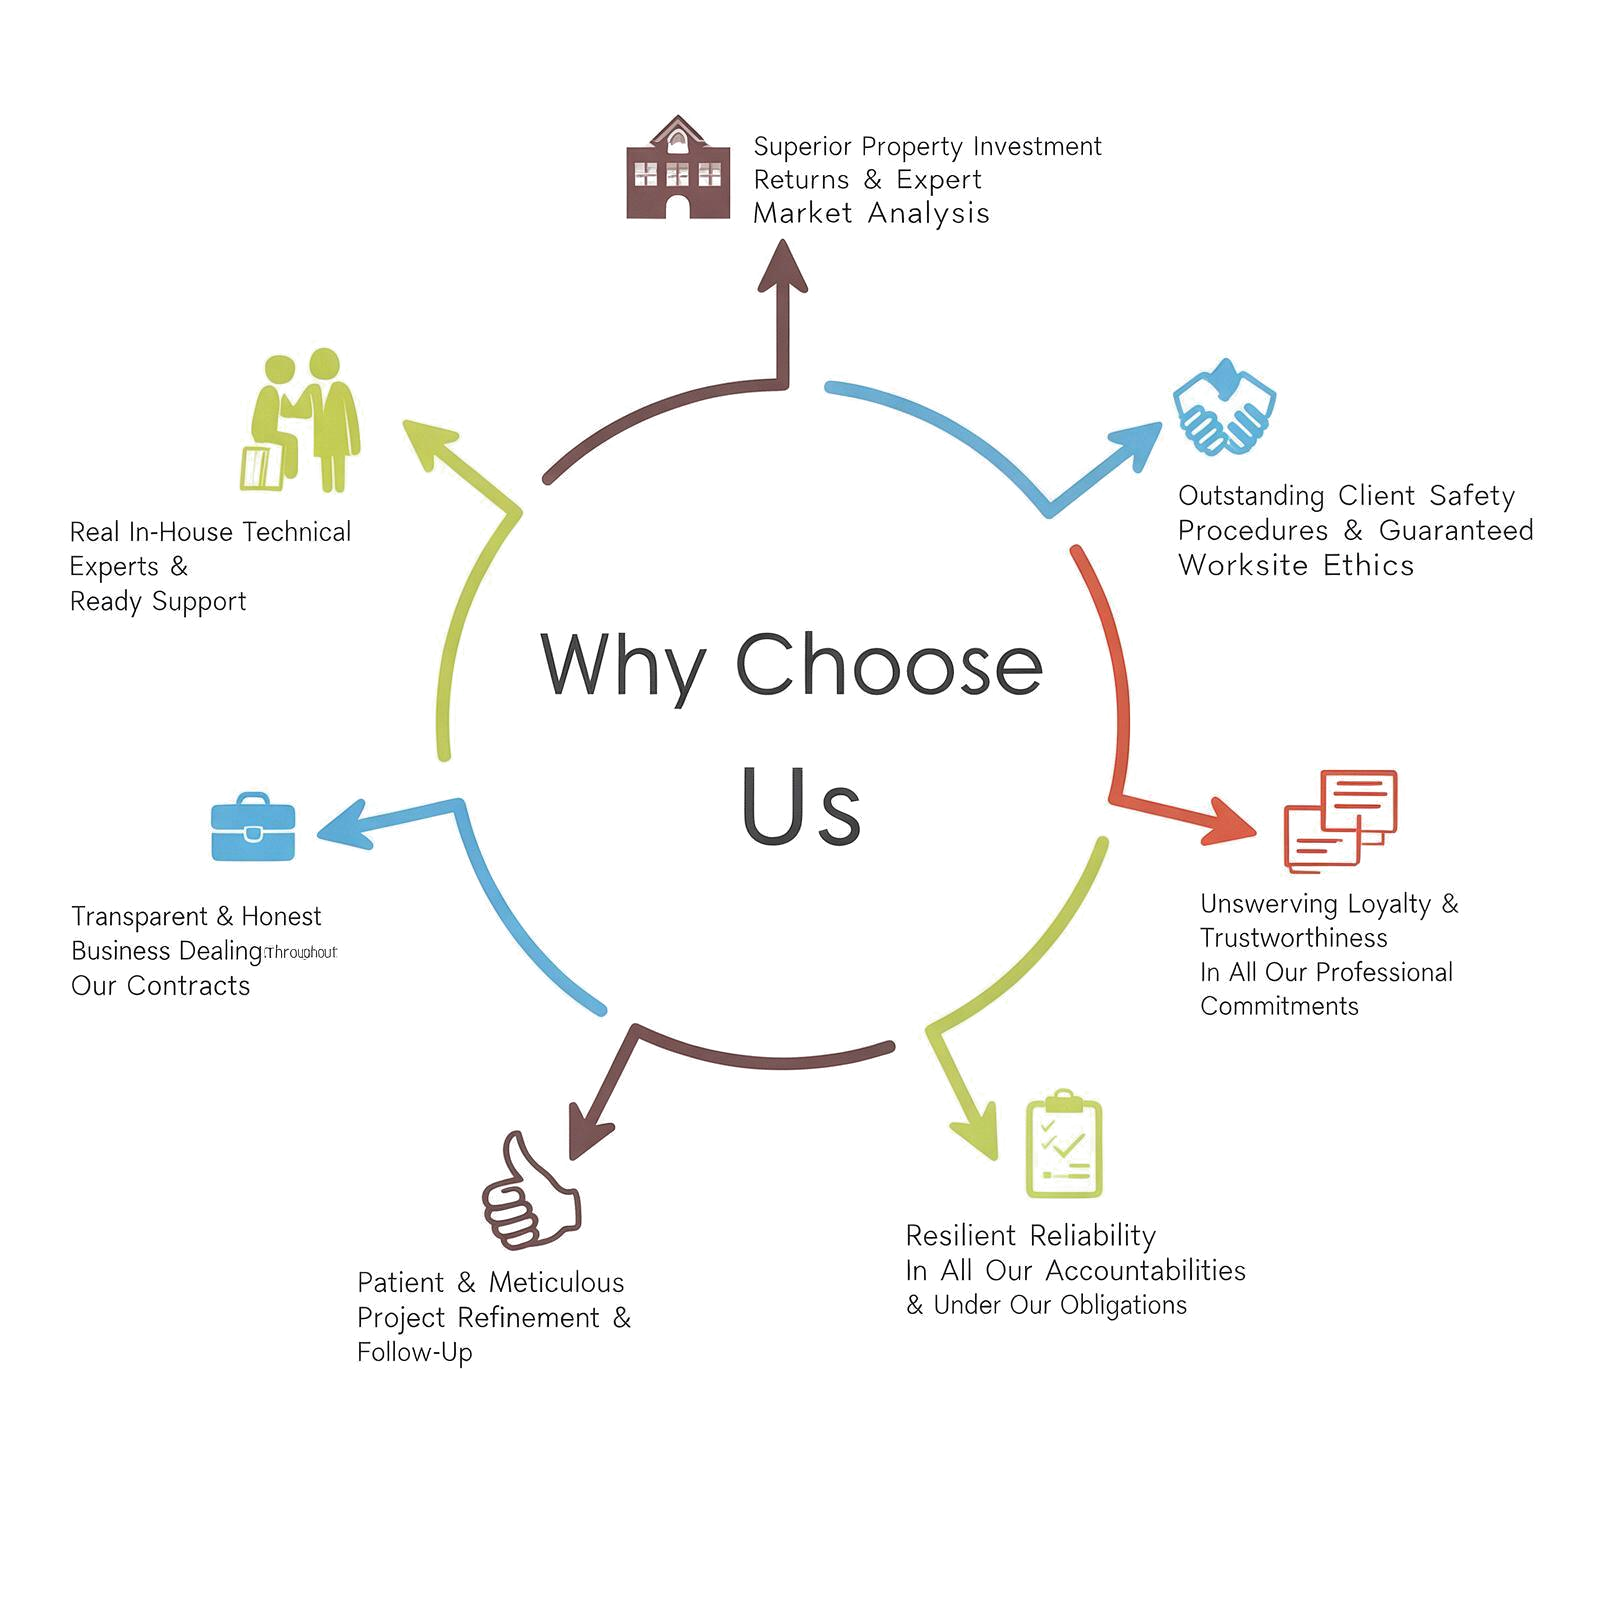
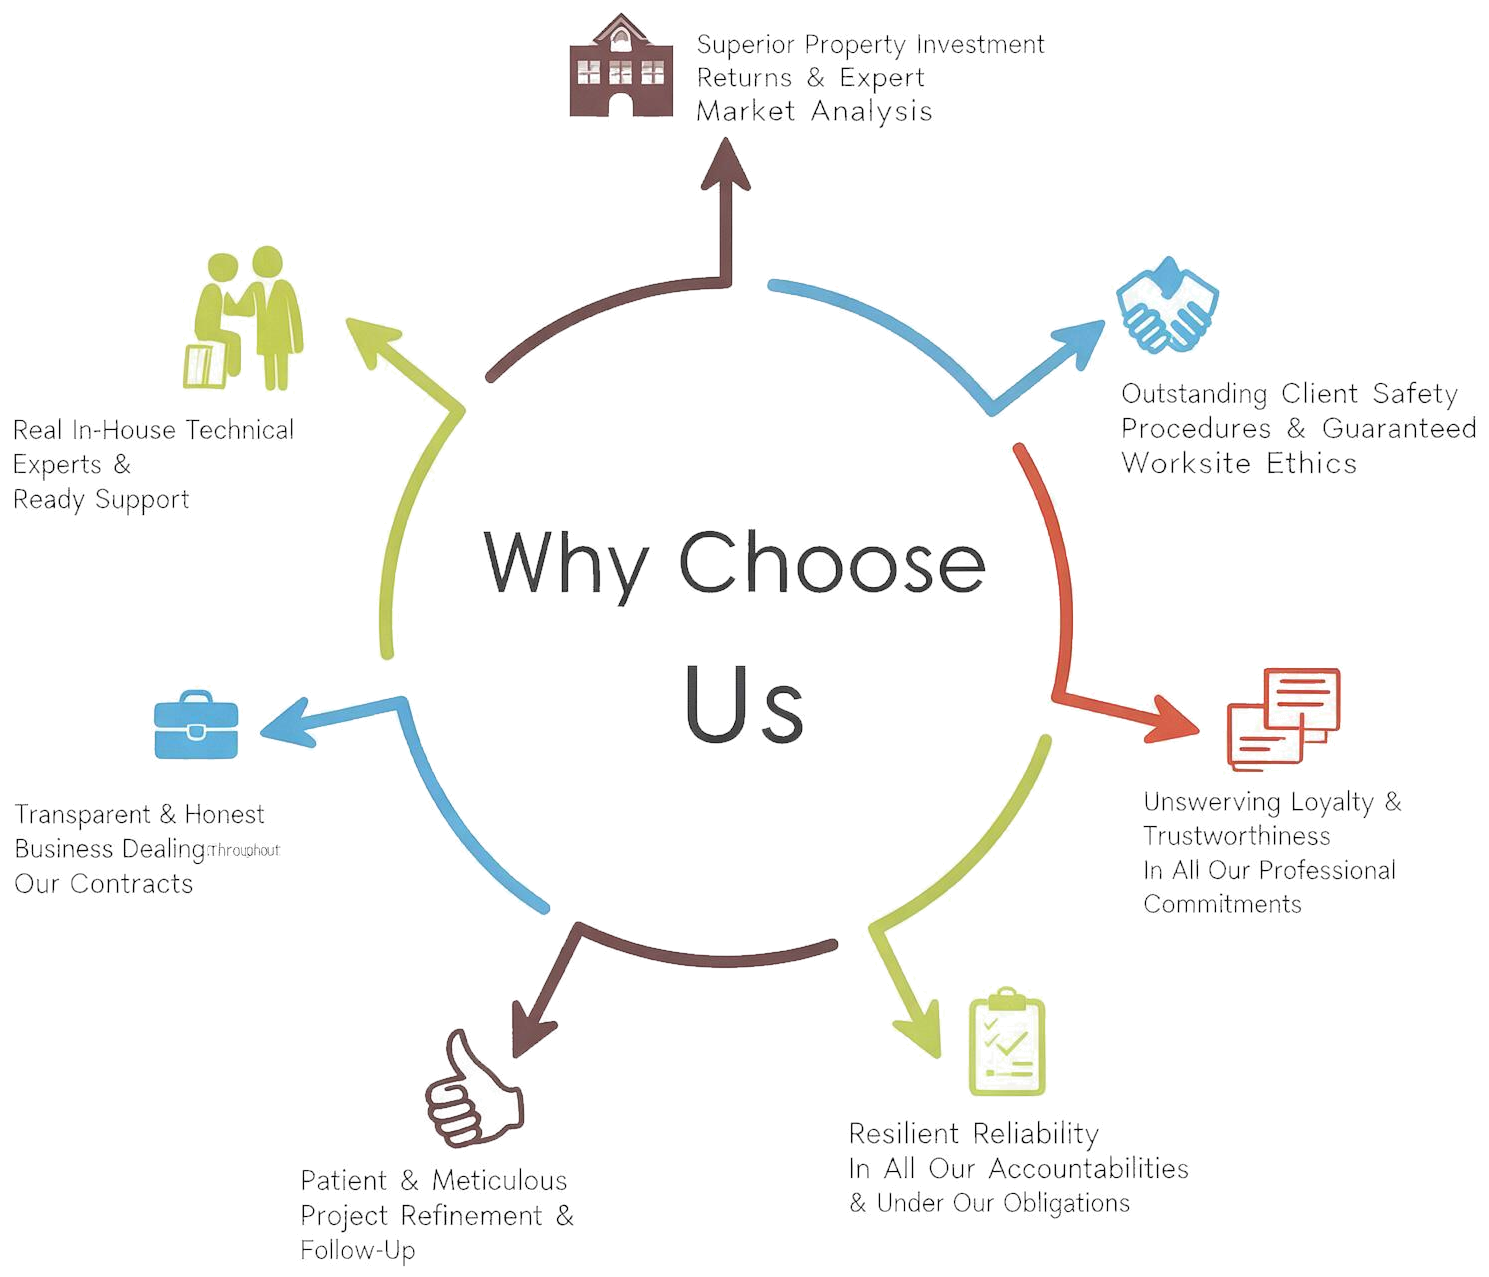
.

Changed region(s): [[0.0, 0.0, 0.9886, 0.733], [0.2163, 0.5497, 0.7723, 1.0]]

diff --git a/index.html b/index.html
@@ -24,7 +24,7 @@
   <link href="assets/vendor/bootstrap-icons/bootstrap-icons.css" rel="stylesheet">
   <link rel="stylesheet" href="https://cdnjs.cloudflare.com/ajax/libs/font-awesome/6.5.1/css/all.min.css" integrity="sha512-DTOQO9RWCH3ppGqcWaEA1BIZOC6xxalwEsw9c2QQeAIftl+Vegovlnee1c9QX4TctnWMn13TZye+giMm8e2LwA==" crossorigin="anonymous" referrerpolicy="no-referrer">
   <link href="assets/vendor/swiper/swiper-bundle.min.css" rel="stylesheet">
-  <link href="assets/css/main.css?v=11.0" rel="stylesheet">
+  <link href="assets/css/main.css?v=11.1" rel="stylesheet">
   <link rel="icon" type="image/png" href="assets/img/favicon.png">
   <link rel="apple-touch-icon" href="assets/img/apple-touch-icon.png">
 
@@ -230,8 +230,8 @@
         </div>
 
         <!-- Why Choose Us Integrated Showcase -->
-        <div class="why-choose-wrapper text-center mt-4 pt-3">
-          <img src="assets/img/why-choose-us.png" onerror="this.onerror=null; this.src='assets/img/why-choose-us-transparent.png';" alt="Why Choose Dr. Smith Medical Equipment" class="img-fluid why-choose-img" loading="lazy">
+        <div class="why-choose-wrapper text-center mt-3">
+          <img src="assets/img/why-choose-us.png?v=2" onerror="this.onerror=null; this.src='assets/img/why-choose-us-transparent.png?v=2';" alt="Why Choose Dr. Smith Medical Equipment" class="img-fluid why-choose-img" loading="lazy">
         </div>
 
       </div>

diff --git a/assets/css/main.css b/assets/css/main.css
@@ -2365,32 +2365,16 @@ section,
 # Why Choose Us Integrated Showcase
 --------------------------------------------------------------*/
 .why-choose-wrapper {
-  background: transparent !important;
-  background-color: transparent !important;
-  position: relative;
-  display: flex;
-  align-items: center;
-  justify-content: center;
   width: 100%;
   margin-top: 25px;
-  border: none !important;
-  box-shadow: none !important;
 }
 
 .why-choose-img {
   max-width: 900px;
   width: 100%;
   height: auto;
-  object-fit: contain;
-  background: transparent !important;
-  background-color: transparent !important;
-  border: none !important;
-  outline: none !important;
-  box-shadow: none !important;
   display: block;
   margin: 0 auto;
-  filter: drop-shadow(0 15px 35px rgba(92, 153, 238, 0.08));
-  transition: transform 0.3s ease;
 }
 
 @media (max-width: 768px) {
